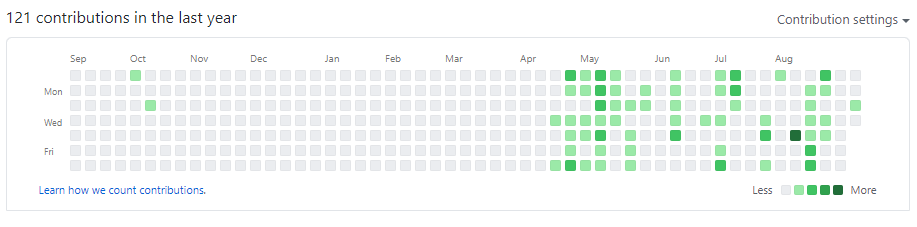
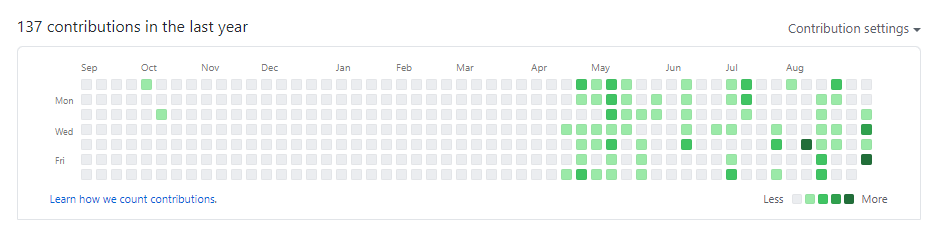
Bugs_fix

diff --git a/index.html b/index.html
@@ -320,7 +320,7 @@
                 </div>
                 <div class="col-md-3 col-sm-6">
                     <div class="item">
-                        <h2 class="counter">125+</h2>
+                        <h2 class="counter">140+</h2>
                         <p>Github Commits</p>
                     </div>
                 </div>
